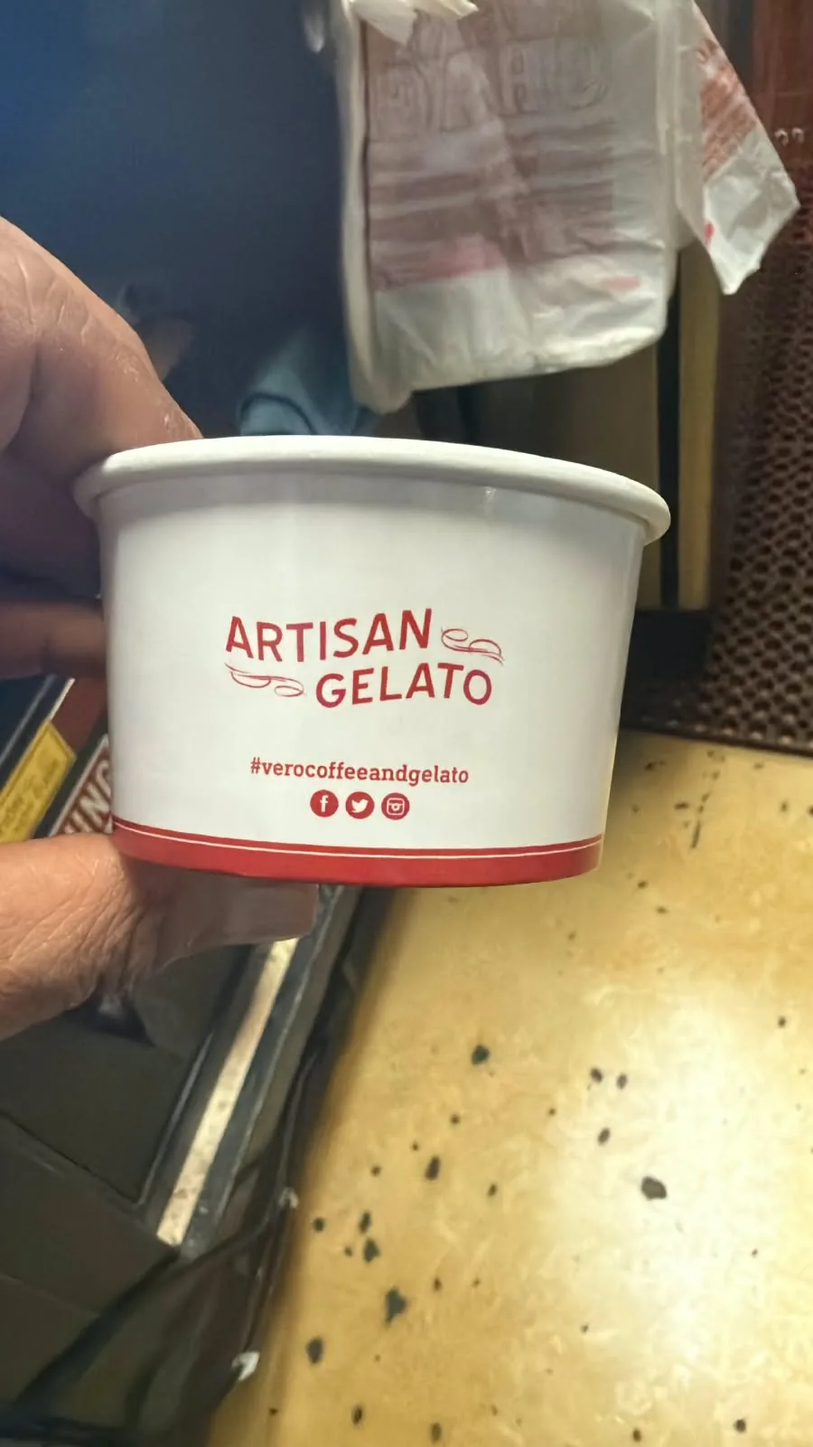
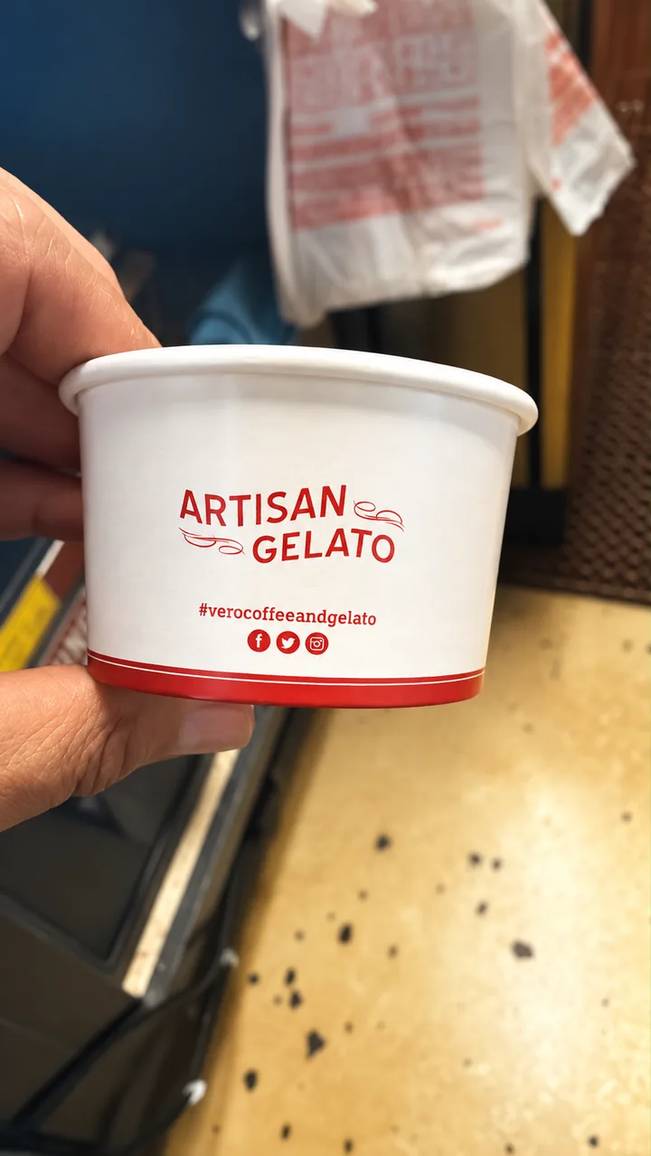
Group Ovali artwork and refresh Cluckin and Vero photos

diff --git a/work/index.html b/work/index.html
@@ -1,5 +1,5 @@
 <!doctype html>
-<html lang="en"><head><meta charset="utf-8"><meta name="viewport" content="width=device-width,initial-scale=1"><meta name="theme-color" content="#efeee5"><meta name="description" content="View selected real-brand packaging, print and branding photos and videos shared for Pines projects."><meta property="og:type" content="website"><meta property="og:url" content="https://sanaullahyasir7-star.github.io/pines-branding-design-solutions/work/"><meta property="og:title" content="Selected Packaging, Print &amp; Branding Work | Pines"><meta property="og:description" content="View selected real-brand packaging, print and branding photos and videos shared for Pines projects."><meta property="og:image" content="https://sanaullahyasir7-star.github.io/pines-branding-design-solutions/assets/pines-branding-packaging-showcase.webp"><meta name="twitter:card" content="summary_large_image"><meta name="twitter:title" content="Selected Packaging, Print &amp; Branding Work | Pines"><meta name="twitter:description" content="View selected real-brand packaging, print and branding photos and videos shared for Pines projects."><meta name="twitter:image" content="https://sanaullahyasir7-star.github.io/pines-branding-design-solutions/assets/pines-branding-packaging-showcase.webp"><link rel="canonical" href="https://sanaullahyasir7-star.github.io/pines-branding-design-solutions/work/"><link rel="icon" href="../favicon.svg" type="image/svg+xml"><link rel="preconnect" href="https://fonts.googleapis.com"><link rel="preconnect" href="https://fonts.gstatic.com" crossorigin><link href="https://fonts.googleapis.com/css2?family=DM+Sans:wght@400;500;600;700&amp;family=Zilla+Slab:ital,wght@0,400;0,500;0,600;1,400;1,500&amp;display=swap" rel="stylesheet"><link rel="stylesheet" href="../assets/site.css?v=20261010-ovali-digital"><title>Selected Packaging, Print &amp; Branding Work | Pines</title></head><body data-depth="1"><a class="skip-link" href="#main">Skip to content</a><div class="announcement">Worldwide delivery</div><header class="site-header"><div class="wrap nav"><a class="brand" data-route="" href="../index.html" aria-label="Pines home"><img src="../assets/pines-logo.webp" width="874" height="317" alt="Pines Branding &amp; Designs Solution"></a><button class="menu-toggle" type="button" aria-label="Open navigation" aria-expanded="false" aria-controls="site-navigation">Menu</button><nav id="site-navigation" class="navlinks" aria-label="Main navigation"><a data-route="services/" href="../services/">Services</a><a data-route="process/" href="../process/">Process</a><a data-route="work/" href="../work/" aria-current="page">Selected Work</a><a data-route="about/" href="../about/">About</a><a class="cta" data-route="start-project/" href="../start-project/">Start a project <span></span></a></nav></div></header><main id="main"><section class="wrap page-hero"><div class="eyebrow">Pines · Selected work</div><h1>Work made for <em>real brands.</em></h1><p>Explore selected real-brand packaging, print, and branding photos and videos.</p></section><section class="section section-sage brand-list-section"><div class="wrap"><div class="section-heading"><div><div class="eyebrow">Client names</div><h2>Brands we’ve<br>worked <em>with.</em></h2></div><p>Selected brands shared by Pines.</p></div><ul class="brand-name-grid"><li>Peri-Peri Guys · USA</li><li>Pineapple Sol</li><li>Hummus Grill · Chicago</li><li>Family Homemade · Milwaukee, WI</li><li>Ovali Pizza</li><li>Cluckin’</li><li>Nescafé</li><li>Refuel &amp; Go</li></ul></div></section><section class="section section-paper"><div class="wrap selected-projects"><section class="client-project" id="family-homemade" aria-labelledby="title-family-homemade"><div class="client-project-heading"><div><p class="eyebrow">PACKAGING · UNITED STATES</p><h2 id="title-family-homemade">Family Homemade</h2></div><p>A supplied retail display photo featuring Family’s Homemade packaging.</p></div><div class="client-project-gallery"><figure class="client-project-media"><img src="../assets/projects/family-homemade/family-homemade-packaging.webp" width="1000" height="750" alt="Family’s Homemade retail packaging displayed in a store" loading="lazy" decoding="async"><figcaption>Family’s Homemade packaging · supplied product photo</figcaption></figure></div></section><section class="client-project" id="hummus-grill" aria-labelledby="title-hummus-grill"><div class="client-project-heading"><div><p class="eyebrow">CHICAGO · BRANDED CAPS</p><h2 id="title-hummus-grill">Hummus Grill</h2></div><p>Two supplied product photos show black caps with Hummus Grill branding.</p></div><div class="client-project-gallery hummus-gallery"><figure class="client-project-media"><img src="../assets/projects/hummus-grill/hummus-grill-01.webp" width="1200" height="1600" alt="Black Hummus Grill branded cap, supplied product photo" loading="lazy" decoding="async"><figcaption>Hummus Grill branded cap · supplied product photo</figcaption></figure><figure class="client-project-media"><img src="../assets/projects/hummus-grill/hummus-grill-02.webp" width="1200" height="1600" alt="Second view of a black Hummus Grill branded cap, supplied product photo" loading="lazy" decoding="async"><figcaption>Hummus Grill cap, second view · supplied product photo</figcaption></figure></div></section><section class="client-project" id="peri-peri-guys" aria-labelledby="title-peri-peri-guys"><div class="client-project-heading"><div><p class="eyebrow">UNITED STATES · PACKAGING & PRINT</p><h2 id="title-peri-peri-guys">Peri-Peri Guys</h2></div><p>Packaging and print visuals for Peri-Peri Guys, including supplied product photos, artwork and video.</p></div><div class="client-project-gallery"><figure class="client-project-media"><img src="../assets/projects/peri-peri-guys/peri-peri-guys-03.webp" width="899" height="1599" alt="Orange Peri-Peri Guys cap samples shown together, supplied product photo" loading="lazy" decoding="async"><figcaption>Orange Peri-Peri Guys cap samples · supplied product photo</figcaption></figure>
+<html lang="en"><head><meta charset="utf-8"><meta name="viewport" content="width=device-width,initial-scale=1"><meta name="theme-color" content="#efeee5"><meta name="description" content="View selected real-brand packaging, print and branding photos and videos shared for Pines projects."><meta property="og:type" content="website"><meta property="og:url" content="https://sanaullahyasir7-star.github.io/pines-branding-design-solutions/work/"><meta property="og:title" content="Selected Packaging, Print &amp; Branding Work | Pines"><meta property="og:description" content="View selected real-brand packaging, print and branding photos and videos shared for Pines projects."><meta property="og:image" content="https://sanaullahyasir7-star.github.io/pines-branding-design-solutions/assets/pines-branding-packaging-showcase.webp"><meta name="twitter:card" content="summary_large_image"><meta name="twitter:title" content="Selected Packaging, Print &amp; Branding Work | Pines"><meta name="twitter:description" content="View selected real-brand packaging, print and branding photos and videos shared for Pines projects."><meta name="twitter:image" content="https://sanaullahyasir7-star.github.io/pines-branding-design-solutions/assets/pines-branding-packaging-showcase.webp"><link rel="canonical" href="https://sanaullahyasir7-star.github.io/pines-branding-design-solutions/work/"><link rel="icon" href="../favicon.svg" type="image/svg+xml"><link rel="preconnect" href="https://fonts.googleapis.com"><link rel="preconnect" href="https://fonts.gstatic.com" crossorigin><link href="https://fonts.googleapis.com/css2?family=DM+Sans:wght@400;500;600;700&amp;family=Zilla+Slab:ital,wght@0,400;0,500;0,600;1,400;1,500&amp;display=swap" rel="stylesheet"><link rel="stylesheet" href="../assets/site.css?v=20261010-cluckin-vero-ovali"><title>Selected Packaging, Print &amp; Branding Work | Pines</title></head><body data-depth="1"><a class="skip-link" href="#main">Skip to content</a><div class="announcement">Worldwide delivery</div><header class="site-header"><div class="wrap nav"><a class="brand" data-route="" href="../index.html" aria-label="Pines home"><img src="../assets/pines-logo.webp" width="874" height="317" alt="Pines Branding &amp; Designs Solution"></a><button class="menu-toggle" type="button" aria-label="Open navigation" aria-expanded="false" aria-controls="site-navigation">Menu</button><nav id="site-navigation" class="navlinks" aria-label="Main navigation"><a data-route="services/" href="../services/">Services</a><a data-route="process/" href="../process/">Process</a><a data-route="work/" href="../work/" aria-current="page">Selected Work</a><a data-route="about/" href="../about/">About</a><a class="cta" data-route="start-project/" href="../start-project/">Start a project <span></span></a></nav></div></header><main id="main"><section class="wrap page-hero"><div class="eyebrow">Pines · Selected work</div><h1>Work made for <em>real brands.</em></h1><p>Explore selected real-brand packaging, print, and branding photos and videos.</p></section><section class="section section-sage brand-list-section"><div class="wrap"><div class="section-heading"><div><div class="eyebrow">Client names</div><h2>Brands we’ve<br>worked <em>with.</em></h2></div><p>Selected brands shared by Pines.</p></div><ul class="brand-name-grid"><li>Peri-Peri Guys · USA</li><li>Pineapple Sol</li><li>Hummus Grill · Chicago</li><li>Family Homemade · Milwaukee, WI</li><li>Ovali Pizza</li><li>Cluckin’</li><li>Vero Coffee &amp; Gelato</li><li>Nescafé</li><li>Refuel &amp; Go</li></ul></div></section><section class="section section-paper"><div class="wrap selected-projects"><section class="client-project" id="family-homemade" aria-labelledby="title-family-homemade"><div class="client-project-heading"><div><p class="eyebrow">PACKAGING · UNITED STATES</p><h2 id="title-family-homemade">Family Homemade</h2></div><p>A supplied retail display photo featuring Family’s Homemade packaging.</p></div><div class="client-project-gallery"><figure class="client-project-media"><img src="../assets/projects/family-homemade/family-homemade-packaging.webp" width="1000" height="750" alt="Family’s Homemade retail packaging displayed in a store" loading="lazy" decoding="async"><figcaption>Family’s Homemade packaging · supplied product photo</figcaption></figure></div></section><section class="client-project" id="hummus-grill" aria-labelledby="title-hummus-grill"><div class="client-project-heading"><div><p class="eyebrow">CHICAGO · BRANDED CAPS</p><h2 id="title-hummus-grill">Hummus Grill</h2></div><p>Two supplied product photos show black caps with Hummus Grill branding.</p></div><div class="client-project-gallery hummus-gallery"><figure class="client-project-media"><img src="../assets/projects/hummus-grill/hummus-grill-01.webp" width="1200" height="1600" alt="Black Hummus Grill branded cap, supplied product photo" loading="lazy" decoding="async"><figcaption>Hummus Grill branded cap · supplied product photo</figcaption></figure><figure class="client-project-media"><img src="../assets/projects/hummus-grill/hummus-grill-02.webp" width="1200" height="1600" alt="Second view of a black Hummus Grill branded cap, supplied product photo" loading="lazy" decoding="async"><figcaption>Hummus Grill cap, second view · supplied product photo</figcaption></figure></div></section><section class="client-project" id="peri-peri-guys" aria-labelledby="title-peri-peri-guys"><div class="client-project-heading"><div><p class="eyebrow">UNITED STATES · PACKAGING & PRINT</p><h2 id="title-peri-peri-guys">Peri-Peri Guys</h2></div><p>Packaging and print visuals for Peri-Peri Guys, including supplied product photos, artwork and video.</p></div><div class="client-project-gallery"><figure class="client-project-media"><img src="../assets/projects/peri-peri-guys/peri-peri-guys-03.webp" width="899" height="1599" alt="Orange Peri-Peri Guys cap samples shown together, supplied product photo" loading="lazy" decoding="async"><figcaption>Orange Peri-Peri Guys cap samples · supplied product photo</figcaption></figure>
 <figure class="client-project-media"><img src="../assets/projects/peri-peri-guys/peri-peri-guys-04.webp" width="1200" height="1600" alt="Orange cap with Peri-Peri Guys mascot mark" loading="lazy" decoding="async"><figcaption>Orange Peri-Peri Guys cap · supplied product photo</figcaption></figure>
 <figure class="client-project-media"><img src="../assets/projects/peri-peri-guys/peri-peri-guys-05.webp" width="1600" height="1384" alt="Peri-Peri Guys packaging artwork and printed pieces" loading="lazy" decoding="async"><figcaption>Peri-Peri Guys packaging visuals · supplied artwork</figcaption></figure>
 <figure class="client-project-media"><img src="../assets/projects/peri-peri-guys/peri-peri-guys-dieline-upload.webp" width="946" height="1050" alt="Peri-Peri Guys orange packaging dieline artwork supplied by Pines" loading="lazy" decoding="async"><figcaption>Peri-Peri Guys packaging dieline · supplied artwork, rotated upright for viewing</figcaption></figure>
@@ -13,6 +13,5 @@
 <figure class="client-project-media"><img src="../assets/projects/peri-peri-guys/peri-peri-guys-13.webp" width="1316" height="1599" alt="Peri-Peri Guys packaging dieline artwork" loading="lazy" decoding="async"><figcaption>Peri-Peri Guys packaging dieline · supplied artwork</figcaption></figure>
 <figure class="client-project-media"><img src="../assets/projects/peri-peri-guys/peri-peri-guys-14.webp" width="1442" height="1600" alt="Peri-Peri Guys printed packaging design" loading="lazy" decoding="async"><figcaption>Peri-Peri Guys printed packaging design · supplied artwork</figcaption></figure>
 <figure class="client-project-media"><img src="../assets/projects/peri-peri-guys/peri-peri-guys-15.webp" width="1000" height="1500" alt="Peri-Peri Guys branded package layout" loading="lazy" decoding="async"><figcaption>Peri-Peri Guys package layout · supplied artwork</figcaption></figure>
-<figure class="client-project-media video-media"><video controls preload="none" playsinline poster="../assets/projects/peri-peri-poster.webp" aria-label="Peri-Peri Guys branded paper bags being handled"><source src="../assets/projects/peri-peri-guys.mp4" type="video/mp4">Your browser does not support embedded video. <a href="../assets/projects/peri-peri-guys.mp4">Open the video</a>.</video><figcaption>Peri-Peri Guys branded paper bags · supplied video</figcaption></figure></div></section><section class="client-project" id="ovali-pizza" aria-labelledby="title-ovali-pizza"><div class="client-project-heading"><div><p class="eyebrow">PACKAGING DESIGN · DIGITAL BRANDING</p><h2 id="title-ovali-pizza">Ovali Pizza</h2></div><p>Green packaging artwork and a branded cup visual were supplied for Ovali Pizza.</p></div><div class="client-project-gallery"><figure class="client-project-media"><img src="../assets/projects/ovali-pizza/ovali-pizza-cup-visual.webp" width="900" height="858" alt="Ovali Cafe House branded drink cup visual supplied with project media" loading="lazy" decoding="async"><figcaption>Ovali Cafe House branded cup visual · supplied project media</figcaption></figure><figure class="client-project-media"><img src="../assets/projects/ovali-pizza/ovali-pizza-04.webp" width="842" height="1191" alt="Ovali Pizza green pizza-packaging dieline artwork" loading="lazy" decoding="async"><figcaption>Ovali Pizza green pizza packaging · supplied artwork</figcaption></figure><figure class="client-project-media"><img src="../assets/projects/ovali-pizza/ovali-pizza-05.webp" width="1132" height="1600" alt="Ovali Pizza illustrated green pizza-packaging dieline artwork" loading="lazy" decoding="async"><figcaption>Ovali Pizza package dieline · supplied artwork</figcaption></figure></div><div class="client-project-subsection" aria-labelledby="ovali-digital-title"><div class="client-project-subsection-heading"><p class="eyebrow">DIGITAL BRANDING</p><h3 id="ovali-digital-title">Promotional graphics &amp; menus</h3><p>The supplied set includes promotional graphics, menu artwork and a QR-menu design. Each item is shown as supplied digital artwork.</p></div><div class="client-project-gallery ovali-digital-gallery" aria-label="Ovali Pizza digital branding artwork"><figure class="client-project-media"><img src="../assets/projects/ovali-pizza/digital/ovali-digital-chocolate-cake-720.webp" width="1080" height="1080" alt="Chocolate cake promotional graphic" loading="lazy" decoding="async"><figcaption>Chocolate cake promotion · supplied digital artwork</figcaption></figure><figure class="client-project-media"><img src="../assets/projects/ovali-pizza/digital/ovali-digital-coffee-latte-720.webp" width="1080" height="1080" alt="Coffee latte promotional graphic" loading="lazy" decoding="async"><figcaption>Coffee latte promotion · supplied digital artwork</figcaption></figure><figure class="client-project-media"><img src="../assets/projects/ovali-pizza/digital/ovali-digital-hot-spicy-pizza-720.webp" width="1080" height="1080" alt="Hot and spicy pizza promotional graphic" loading="lazy" decoding="async"><figcaption>Hot & Spicy pizza promotion · supplied digital artwork</figcaption></figure><figure class="client-project-media"><img src="../assets/projects/ovali-pizza/digital/ovali-digital-four-cheese-pizza-720.webp" width="1080" height="1920" alt="Four-cheese pizza vertical promotional design" loading="lazy" decoding="async"><figcaption>Four-cheese pizza story graphic · supplied digital artwork</figcaption></figure><figure class="client-project-media"><img src="../assets/projects/ovali-pizza/digital/ovali-digital-tiramisu-cake-720.webp" width="1080" height="1080" alt="Tiramisu cake promotional graphic" loading="lazy" decoding="async"><figcaption>Tiramisu cake promotion · supplied digital artwork</figcaption></figure><figure class="client-project-media"><img src="../assets/projects/ovali-pizza/digital/ovali-digital-veggie-pizza-720.webp" width="1080" height="1080" alt="Vegetable pizza promotional graphic" loading="lazy" decoding="async"><figcaption>Veggie Pizza promotion · supplied digital artwork</figcaption></figure><figure class="client-project-media"><img src="../assets/projects/ovali-pizza/digital/ovali-digital-cafe-latte-720.webp" width="1080" height="1920" alt="Cafe latte vertical promotional design" loading="lazy" decoding="async"><figcaption>Cafe Latte story graphic · supplied digital artwork</figcaption></figure><figure class="client-project-media"><img src="../assets/projects/ovali-pizza/digital/ovali-digital-menu-qr-720.webp" width="1080" height="1080" alt="Ovali Pizza graphic inviting customers to scan a QR code for the menu" loading="lazy" decoding="async"><figcaption>QR menu graphic · supplied digital artwork</figcaption></figure><figure class="client-project-media"><img src="../assets/projects/ovali-pizza/digital/ovali-digital-pizza-menu-720.webp" width="1080" height="1350" alt="Ovali Pizza menu design" loading="lazy" decoding="async"><figcaption>Pizza menu · supplied digital artwork</figcaption></figure><figure class="client-project-media"><img src="../assets/projects/ovali-pizza/digital/ovali-digital-slice-of-happiness-720.webp" width="1080" height="1920" alt="Ovali Pizza Slice of Happiness vertical promotional poster" loading="lazy" decoding="async"><figcaption>Slice of Happiness poster · supplied digital artwork</figcaption></figure></div></div></section><section class="client-project" id="cluckin" aria-labelledby="title-cluckin"><div class="client-project-heading"><div><p class="eyebrow">PACKAGING</p><h2 id="title-cluckin">Cluckin’</h2></div><p>A supplied photo of a branded takeaway package.</p></div><div class="client-project-gallery"><figure class="client-project-media"><img src="../assets/projects/cluckin/cluckin-01.webp" width="1600" height="1200" alt="Cluckin’ branded red takeaway box photographed at the worktable" loading="lazy" decoding="async"><figcaption>Cluckin’ branded red takeaway box · supplied product photo</figcaption></figure><figure class="client-project-media"><img src="../assets/projects/peri-peri-guys/peri-peri-guys-10.webp" width="1600" height="1200" alt="Cluckin branded takeaway box from a second angle" loading="lazy" decoding="async"><figcaption>Cluckin’ branded takeaway box · supplied product photo, second angle</figcaption></figure></div></section><section class="client-project" id="nescafe-refuel" aria-labelledby="title-nescafe-refuel"><div class="client-project-heading"><div><p class="eyebrow">PROMOTIONAL DISPLAY</p><h2 id="title-nescafe-refuel">Nescafé · Refuel &amp; Go</h2></div><p>A promotional display video featuring Nescafé and Refuel &amp; Go.</p></div><div class="client-project-gallery"><figure class="client-project-media video-media"><video controls preload="none" playsinline poster="../assets/projects/nescafe-refuel-poster.webp" aria-label="Nescafé and Refuel &amp; Go promotional display"><source src="../assets/projects/nescafe-refuel-display.mp4" type="video/mp4">Your browser does not support embedded video. <a href="../assets/projects/nescafe-refuel-display.mp4">Open the video</a>.</video><figcaption>Nescafé / Refuel &amp; Go display · supplied video</figcaption></figure></div></section><section class="client-project" id="vero-coffee-gelato" aria-labelledby="title-vero-coffee-gelato"><div class="client-project-heading"><div><p class="eyebrow">PRINTED CUP</p><h2 id="title-vero-coffee-gelato">Vero Coffee &amp; Gelato</h2></div><p>A branded cup photo supplied with the project media.</p></div><div class="client-project-gallery"><figure class="client-project-media"><img src="../assets/projects/vero-coffee-gelato/vero-coffee-gelato-01.webp" width="900" height="1600" alt="Vero Coffee & Gelato branded cup photographed at the counter" loading="lazy" decoding="async"><figcaption>Vero Coffee & Gelato branded cup · supplied product photo</figcaption></figure></div></section><section class="client-project" id="balkan-homemade" aria-labelledby="title-balkan-homemade"><div class="client-project-heading"><div><p class="eyebrow">PACKAGING</p><h2 id="title-balkan-homemade">Balkan Homemade</h2></div><p>The supplied packaging photos visibly carry the Balkan Homemade name.</p></div><div class="client-project-gallery"><figure class="client-project-media"><img src="../assets/projects/balkan-homemade/balkan-homemade-01.webp" width="1600" height="1600" alt="Balkan Homemade food packaging displayed in a retail setting" loading="lazy" decoding="async"><figcaption>Balkan Homemade food packaging · supplied product photo</figcaption></figure>
-<figure class="client-project-media"><img src="../assets/projects/balkan-homemade/balkan-homemade-02.webp" width="1600" height="1600" alt="Balkan Homemade package design and product label" loading="lazy" decoding="async"><figcaption>Balkan Homemade package and label · supplied design</figcaption></figure></div></section><section class="client-project" id="grab-and-go" aria-labelledby="title-grab-and-go"><div class="client-project-heading"><div><p class="eyebrow">PACKAGING ARTWORK</p><h2 id="title-grab-and-go">Grab &amp; Go</h2></div><p>The supplied artwork carries the words “Grab &amp; Go.”</p></div><div class="client-project-gallery"><figure class="client-project-media"><img src="../assets/projects/grab-and-go/grab-and-go-01.webp" width="1132" height="1600" alt="Grab & Go takeaway package artwork" loading="lazy" decoding="async"><figcaption>Grab & Go takeaway package · supplied artwork</figcaption></figure>
-<figure class="client-project-media"><img src="../assets/projects/grab-and-go/grab-and-go-02.webp" width="1132" height="1600" alt="Grab & Go package artwork with illustrated character" loading="lazy" decoding="async"><figcaption>Grab & Go package with illustrated character · supplied artwork</figcaption></figure></div></section></div></section><section class="section"><div class="wrap split"><div><div class="eyebrow">Have a project in mind?</div><h2>Let’s make it <em>tangible.</em></h2></div><div><p>Share the service, intended product, quantity, size and delivery destination. Pines can discuss the next step.</p><a class="button" href="../start-project/#planner">Plan your project</a></div></div></section></main><footer class="footer"><div class="wrap"><div class="footer-grid"><div><a data-route="" href="../index.html"><img class="footer-logo" src="../assets/pines-logo.webp" width="874" height="317" alt="Pines Branding &amp; Designs Solution"></a><p style="max-width:290px;margin-top:1rem">Design, mockups, sampling and production for packaging and print projects.</p><a data-route="start-project/" class="text-arrow" style="color:#fff" href="../start-project/">Start a project </a></div><div><h2>Explore</h2><ul><li><a data-route="services/" href="../services/">Services</a></li><li><a data-route="process/" href="../process/">Process</a></li><li><a data-route="work/" href="../work/">Selected Work</a></li><li><a data-route="about/" href="../about/">About Pines</a></li></ul></div><div><h2>Useful</h2><ul><li><a data-route="faq/" href="../faq/">FAQ</a></li><li><a data-route="start-project/" href="../start-project/">Request a quote</a></li><li><a data-route="contact/" href="../contact/">Contact</a></li></ul></div><div class="footer-contact"><h2>Contact</h2><p>Based in Islamabad, Pakistan.</p><p><a href="tel:+923244485746">+92 324 4485746</a><br><a href="https://wa.me/923244485746">WhatsApp Pines </a></p><a data-route="contact/" href="../contact/">Project enquiries </a><p class="delivery-note">Worldwide delivery.</p></div></div><div class="footer-meta"><span>© <span data-year></span> Pines Branding &amp; Designs Solution</span><span>Packaging · Print · Branding</span><a class="engineer-credit" href="https://sanaullahyasir7-star.github.io/Sanaullah-Yasir-AI-Portfolio/">Website engineered by Sanaullah Yasir</a></div></div></footer><div class="skip-cta-mobile"><a class="cta" data-route="start-project/" href="../start-project/">Start a project </a></div><script>document.querySelectorAll('[data-year]').forEach(el=>el.textContent=new Date().getFullYear())</script><script src="../assets/site.js?v=20261010-regional" defer></script></body></html>
+<figure class="client-project-media video-media"><video controls preload="none" playsinline poster="../assets/projects/peri-peri-poster.webp" aria-label="Peri-Peri Guys branded paper bags being handled"><source src="../assets/projects/peri-peri-guys.mp4" type="video/mp4">Your browser does not support embedded video. <a href="../assets/projects/peri-peri-guys.mp4">Open the video</a>.</video><figcaption>Peri-Peri Guys branded paper bags · supplied video</figcaption></figure></div></section><section class="client-project" id="ovali-pizza" aria-labelledby="title-ovali-pizza"><div class="client-project-heading"><div><p class="eyebrow">PACKAGING DESIGN · DIGITAL BRANDING</p><h2 id="title-ovali-pizza">Ovali Pizza</h2></div><p>Green packaging artwork and a branded cup visual were supplied for Ovali Pizza.</p></div><div class="client-project-gallery"><figure class="client-project-media"><img src="../assets/projects/ovali-pizza/ovali-pizza-cup-visual.webp" width="900" height="858" alt="Ovali Cafe House branded drink cup visual supplied with project media" loading="lazy" decoding="async"><figcaption>Ovali Cafe House branded cup visual · supplied project media</figcaption></figure><figure class="client-project-media"><img src="../assets/projects/ovali-pizza/ovali-pizza-04.webp" width="842" height="1191" alt="Ovali Pizza green pizza-packaging dieline artwork" loading="lazy" decoding="async"><figcaption>Ovali Pizza green pizza packaging · supplied artwork</figcaption></figure><figure class="client-project-media"><img src="../assets/projects/ovali-pizza/ovali-pizza-05.webp" width="1132" height="1600" alt="Ovali Pizza illustrated green pizza-packaging dieline artwork" loading="lazy" decoding="async"><figcaption>Ovali Pizza package dieline · supplied artwork</figcaption></figure></div><div class="client-project-subsection" aria-labelledby="ovali-grab-go-title"><div class="client-project-subsection-heading"><p class="eyebrow">OVALI PIZZA · PACKAGING ARTWORK</p><h3 id="ovali-grab-go-title">Grab &amp; Go</h3><p>The supplied “Grab &amp; Go” package artwork belongs to Ovali Pizza.</p></div><div class="client-project-gallery ovali-grab-go-gallery"><figure class="client-project-media"><img src="../assets/projects/ovali-pizza/grab-and-go-01.webp" width="720" height="1018" alt="Ovali Pizza Grab and Go takeaway package artwork" loading="lazy" decoding="async"><figcaption>Ovali Pizza “Grab &amp; Go” package · supplied artwork</figcaption></figure><figure class="client-project-media"><img src="../assets/projects/ovali-pizza/grab-and-go-02.webp" width="720" height="1018" alt="Second Ovali Pizza Grab and Go package artwork with an illustrated character" loading="lazy" decoding="async"><figcaption>Ovali Pizza “Grab &amp; Go” package with illustrated character · supplied artwork</figcaption></figure></div></div><div class="client-project-subsection" aria-labelledby="ovali-digital-title"><div class="client-project-subsection-heading"><p class="eyebrow">DIGITAL BRANDING</p><h3 id="ovali-digital-title">Promotional graphics &amp; menus</h3><p>The supplied set includes promotional graphics, menu artwork and a QR-menu design. Each item is shown as supplied digital artwork.</p></div><div class="client-project-gallery ovali-digital-gallery" aria-label="Ovali Pizza digital branding artwork"><figure class="client-project-media"><img src="../assets/projects/ovali-pizza/digital/ovali-digital-chocolate-cake-720.webp" width="1080" height="1080" alt="Chocolate cake promotional graphic" loading="lazy" decoding="async"><figcaption>Chocolate cake promotion · supplied digital artwork</figcaption></figure><figure class="client-project-media"><img src="../assets/projects/ovali-pizza/digital/ovali-digital-coffee-latte-720.webp" width="1080" height="1080" alt="Coffee latte promotional graphic" loading="lazy" decoding="async"><figcaption>Coffee latte promotion · supplied digital artwork</figcaption></figure><figure class="client-project-media"><img src="../assets/projects/ovali-pizza/digital/ovali-digital-hot-spicy-pizza-720.webp" width="1080" height="1080" alt="Hot and spicy pizza promotional graphic" loading="lazy" decoding="async"><figcaption>Hot & Spicy pizza promotion · supplied digital artwork</figcaption></figure><figure class="client-project-media"><img src="../assets/projects/ovali-pizza/digital/ovali-digital-four-cheese-pizza-720.webp" width="1080" height="1920" alt="Four-cheese pizza vertical promotional design" loading="lazy" decoding="async"><figcaption>Four-cheese pizza story graphic · supplied digital artwork</figcaption></figure><figure class="client-project-media"><img src="../assets/projects/ovali-pizza/digital/ovali-digital-tiramisu-cake-720.webp" width="1080" height="1080" alt="Tiramisu cake promotional graphic" loading="lazy" decoding="async"><figcaption>Tiramisu cake promotion · supplied digital artwork</figcaption></figure><figure class="client-project-media"><img src="../assets/projects/ovali-pizza/digital/ovali-digital-veggie-pizza-720.webp" width="1080" height="1080" alt="Vegetable pizza promotional graphic" loading="lazy" decoding="async"><figcaption>Veggie Pizza promotion · supplied digital artwork</figcaption></figure><figure class="client-project-media"><img src="../assets/projects/ovali-pizza/digital/ovali-digital-cafe-latte-720.webp" width="1080" height="1920" alt="Cafe latte vertical promotional design" loading="lazy" decoding="async"><figcaption>Cafe Latte story graphic · supplied digital artwork</figcaption></figure><figure class="client-project-media"><img src="../assets/projects/ovali-pizza/digital/ovali-digital-menu-qr-720.webp" width="1080" height="1080" alt="Ovali Pizza graphic inviting customers to scan a QR code for the menu" loading="lazy" decoding="async"><figcaption>QR menu graphic · supplied digital artwork</figcaption></figure><figure class="client-project-media"><img src="../assets/projects/ovali-pizza/digital/ovali-digital-pizza-menu-720.webp" width="1080" height="1350" alt="Ovali Pizza menu design" loading="lazy" decoding="async"><figcaption>Pizza menu · supplied digital artwork</figcaption></figure><figure class="client-project-media"><img src="../assets/projects/ovali-pizza/digital/ovali-digital-slice-of-happiness-720.webp" width="1080" height="1920" alt="Ovali Pizza Slice of Happiness vertical promotional poster" loading="lazy" decoding="async"><figcaption>Slice of Happiness poster · supplied digital artwork</figcaption></figure></div></div></section><section class="client-project" id="cluckin" aria-labelledby="title-cluckin"><div class="client-project-heading"><div><p class="eyebrow">PACKAGING</p><h2 id="title-cluckin">Cluckin’</h2></div><p>Two supplied photos show the Cluckin’ branded takeaway box from different angles.</p></div><div class="client-project-gallery cluckin-gallery"><figure class="client-project-media"><img src="../assets/projects/cluckin/cluckin-01.webp" width="720" height="540" alt="Cluckin’ branded takeaway box viewed from above" loading="lazy" decoding="async"><figcaption>Cluckin’ takeaway box · supplied product photo</figcaption></figure><figure class="client-project-media"><img src="../assets/projects/cluckin/cluckin-02.webp" width="720" height="540" alt="Cluckin’ branded takeaway box photographed from the front" loading="lazy" decoding="async"><figcaption>Cluckin’ takeaway box · second supplied product photo</figcaption></figure></div></section><section class="client-project" id="nescafe-refuel" aria-labelledby="title-nescafe-refuel"><div class="client-project-heading"><div><p class="eyebrow">PROMOTIONAL DISPLAY</p><h2 id="title-nescafe-refuel">Nescafé · Refuel &amp; Go</h2></div><p>A promotional display video featuring Nescafé and Refuel &amp; Go.</p></div><div class="client-project-gallery"><figure class="client-project-media video-media"><video controls preload="none" playsinline poster="../assets/projects/nescafe-refuel-poster.webp" aria-label="Nescafé and Refuel &amp; Go promotional display"><source src="../assets/projects/nescafe-refuel-display.mp4" type="video/mp4">Your browser does not support embedded video. <a href="../assets/projects/nescafe-refuel-display.mp4">Open the video</a>.</video><figcaption>Nescafé / Refuel &amp; Go display · supplied video</figcaption></figure></div></section><section class="client-project" id="vero-coffee-gelato" aria-labelledby="title-vero-coffee-gelato"><div class="client-project-heading"><div><p class="eyebrow">PRINTED CUPS</p><h2 id="title-vero-coffee-gelato">Vero Coffee &amp; Gelato</h2></div><p>Supplied cup photos show Vero branding and an Artisan Gelato design featuring the Vero Coffee &amp; Gelato hashtag.</p></div><div class="client-project-gallery vero-gallery"><figure class="client-project-media"><img src="../assets/projects/vero-coffee-gelato/vero-coffee-gelato-01.webp" width="720" height="1279" alt="Artisan Gelato cup with the hashtag Vero Coffee and Gelato, supplied product photo" loading="lazy" decoding="async"><figcaption>Artisan Gelato cup with Vero Coffee &amp; Gelato hashtag · supplied product photo</figcaption></figure><figure class="client-project-media"><img src="../assets/projects/vero-coffee-gelato/vero-coffee-gelato-02.webp" width="720" height="1279" alt="Vero Coffee &amp; Gelato branded cup, supplied product photo" loading="lazy" decoding="async"><figcaption>Vero Coffee &amp; Gelato branded cup · supplied product photo</figcaption></figure></div></section><section class="client-project" id="balkan-homemade" aria-labelledby="title-balkan-homemade"><div class="client-project-heading"><div><p class="eyebrow">PACKAGING</p><h2 id="title-balkan-homemade">Balkan Homemade</h2></div><p>The supplied packaging photos visibly carry the Balkan Homemade name.</p></div><div class="client-project-gallery"><figure class="client-project-media"><img src="../assets/projects/balkan-homemade/balkan-homemade-01.webp" width="1600" height="1600" alt="Balkan Homemade food packaging displayed in a retail setting" loading="lazy" decoding="async"><figcaption>Balkan Homemade food packaging · supplied product photo</figcaption></figure>
+<figure class="client-project-media"><img src="../assets/projects/balkan-homemade/balkan-homemade-02.webp" width="1600" height="1600" alt="Balkan Homemade package design and product label" loading="lazy" decoding="async"><figcaption>Balkan Homemade package and label · supplied design</figcaption></figure></div></section></div></section><section class="section"><div class="wrap split"><div><div class="eyebrow">Have a project in mind?</div><h2>Let’s make it <em>tangible.</em></h2></div><div><p>Share the service, intended product, quantity, size and delivery destination. Pines can discuss the next step.</p><a class="button" href="../start-project/#planner">Plan your project</a></div></div></section></main><footer class="footer"><div class="wrap"><div class="footer-grid"><div><a data-route="" href="../index.html"><img class="footer-logo" src="../assets/pines-logo.webp" width="874" height="317" alt="Pines Branding &amp; Designs Solution"></a><p style="max-width:290px;margin-top:1rem">Design, mockups, sampling and production for packaging and print projects.</p><a data-route="start-project/" class="text-arrow" style="color:#fff" href="../start-project/">Start a project </a></div><div><h2>Explore</h2><ul><li><a data-route="services/" href="../services/">Services</a></li><li><a data-route="process/" href="../process/">Process</a></li><li><a data-route="work/" href="../work/">Selected Work</a></li><li><a data-route="about/" href="../about/">About Pines</a></li></ul></div><div><h2>Useful</h2><ul><li><a data-route="faq/" href="../faq/">FAQ</a></li><li><a data-route="start-project/" href="../start-project/">Request a quote</a></li><li><a data-route="contact/" href="../contact/">Contact</a></li></ul></div><div class="footer-contact"><h2>Contact</h2><p>Based in Islamabad, Pakistan.</p><p><a href="tel:+923244485746">+92 324 4485746</a><br><a href="https://wa.me/923244485746">WhatsApp Pines </a></p><a data-route="contact/" href="../contact/">Project enquiries </a><p class="delivery-note">Worldwide delivery.</p></div></div><div class="footer-meta"><span>© <span data-year></span> Pines Branding &amp; Designs Solution</span><span>Packaging · Print · Branding</span><a class="engineer-credit" href="https://sanaullahyasir7-star.github.io/Sanaullah-Yasir-AI-Portfolio/">Website engineered by Sanaullah Yasir</a></div></div></footer><div class="skip-cta-mobile"><a class="cta" data-route="start-project/" href="../start-project/">Start a project </a></div><script>document.querySelectorAll('[data-year]').forEach(el=>el.textContent=new Date().getFullYear())</script><script src="../assets/site.js?v=20261010-regional" defer></script></body></html>

diff --git a/assets/site.css b/assets/site.css
@@ -224,3 +224,7 @@ summary::after{font:500 12px/1.4 var(--sans);letter-spacing:0;top:1.6rem}
 .client-project-gallery.ovali-digital-gallery{gap:14px}
 .client-project-gallery.ovali-digital-gallery .client-project-media img{object-fit:contain}
 @media(max-width:760px){.client-project-subsection{margin-top:32px;padding-top:24px}.client-project-subsection-heading{display:block;margin-bottom:16px}.client-project-subsection-heading h3{font-size:28px}.client-project-subsection-heading>p:last-child{margin-top:8px;font-size:14px}}
+
+/* Brand-specific project galleries: balanced image groups on wide screens. */
+.client-project-gallery.cluckin-gallery,.client-project-gallery.vero-gallery,.client-project-gallery.ovali-grab-go-gallery{grid-template-columns:repeat(2,minmax(0,1fr));max-width:980px;gap:20px}
+@media(max-width:600px){.client-project-gallery.cluckin-gallery,.client-project-gallery.vero-gallery,.client-project-gallery.ovali-grab-go-gallery{grid-template-columns:1fr;max-width:520px;gap:16px}}
